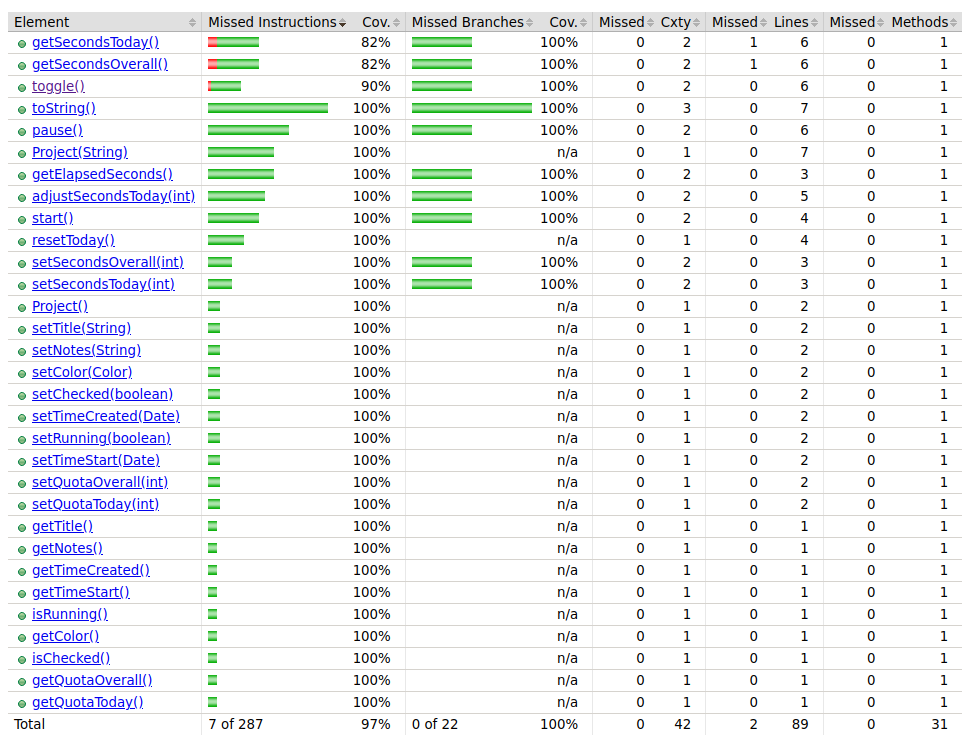
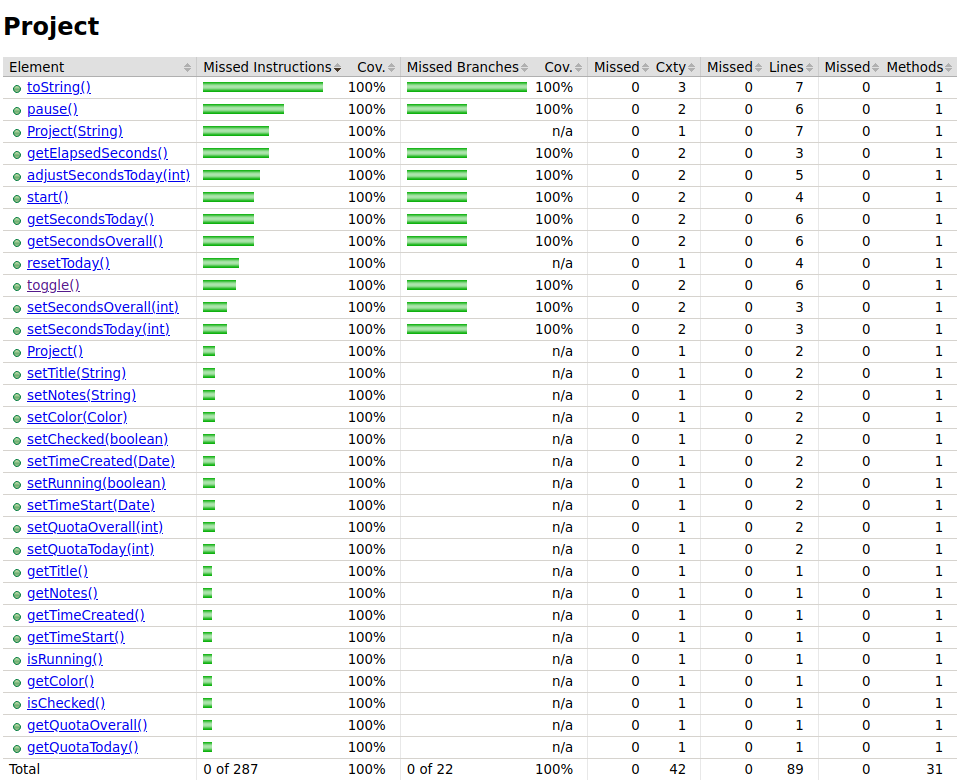
full coverage on project class

Changed region(s): [[0.0, 0.0, 0.9917, 0.9959]]

diff --git a/src/test/java/de/dominik_geyer/jtimesched/project/ProjectTest.java b/src/test/java/de/dominik_geyer/jtimesched/project/ProjectTest.java
@@ -202,7 +202,7 @@ public class ProjectTest {
       Mockito.doReturn(2).when(spy).getElapsedSeconds();
 
       // When
-      spy.pause();   
+      spy.pause();
 
       // Then
       Assertions.assertEquals(2, spy.getSecondsOverall());
@@ -270,7 +270,20 @@ public class ProjectTest {
     Assertions.assertEquals(true, project.isRunning());
   }
 
-  // TODO: how to test the catch of toggle? Mockito
+  @Test
+  public void exceptionToggleTest() {
+    try {
+      // Given
+      Project project = new Project();
+      Project spy = Mockito.spy(project);
+      Mockito.doThrow(ProjectException.class).when(spy).start();
+
+      // When and Then
+      Assertions.assertDoesNotThrow(() -> spy.toggle());
+    } catch (ProjectException e) {
+      fail("Shouldn't have thrown any exception");
+    }
+  }
 
   // getSecondsOverall
   @Test
@@ -301,8 +314,8 @@ public class ProjectTest {
       // Given
       Project project = new Project();
       project.setSecondsOverall(10);
-      project.setRunning(false);
-      
+      project.setRunning(true);
+
       Project spy = Mockito.spy(project);
       Mockito.doThrow(ProjectException.class).when(spy).getElapsedSeconds();
 
@@ -373,7 +386,7 @@ public class ProjectTest {
       // Given
       Project project = new Project();
       project.setSecondsToday(10);
-      project.setRunning(false);
+      project.setRunning(true);
 
       Project spy = Mockito.spy(project);
       Mockito.doThrow(ProjectException.class).when(spy).getElapsedSeconds();

diff --git a/docs/05_assignment/05_assignment.md b/docs/05_assignment/05_assignment.md
@@ -49,11 +49,8 @@ Yet, each test case covered its target function at 100% in both _line coverage_ 
 
 ### Project class
 
-We were able to achieve 100% branch coverage and 97% line coverage for the `Project Class`.
+We were able to achieve 100% branch coverage and 100% line coverage for the `Project Class`.
 ![](./figures/projectClass-report.png)
-
-The only lines that were not tested are presented below.
-![](./figures/projectClassOnlyLinesMissing-report.png)
 
 #### Test 6 - setSecondsOverall
 
